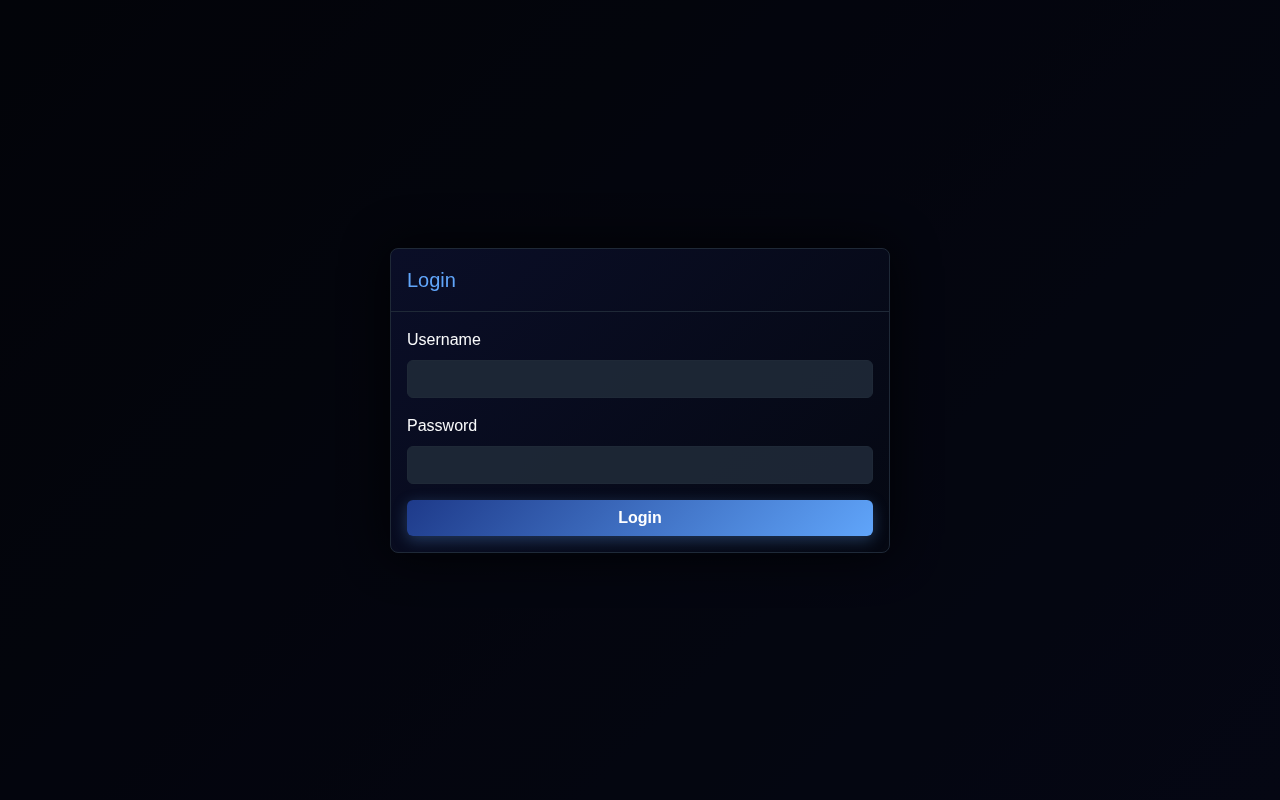
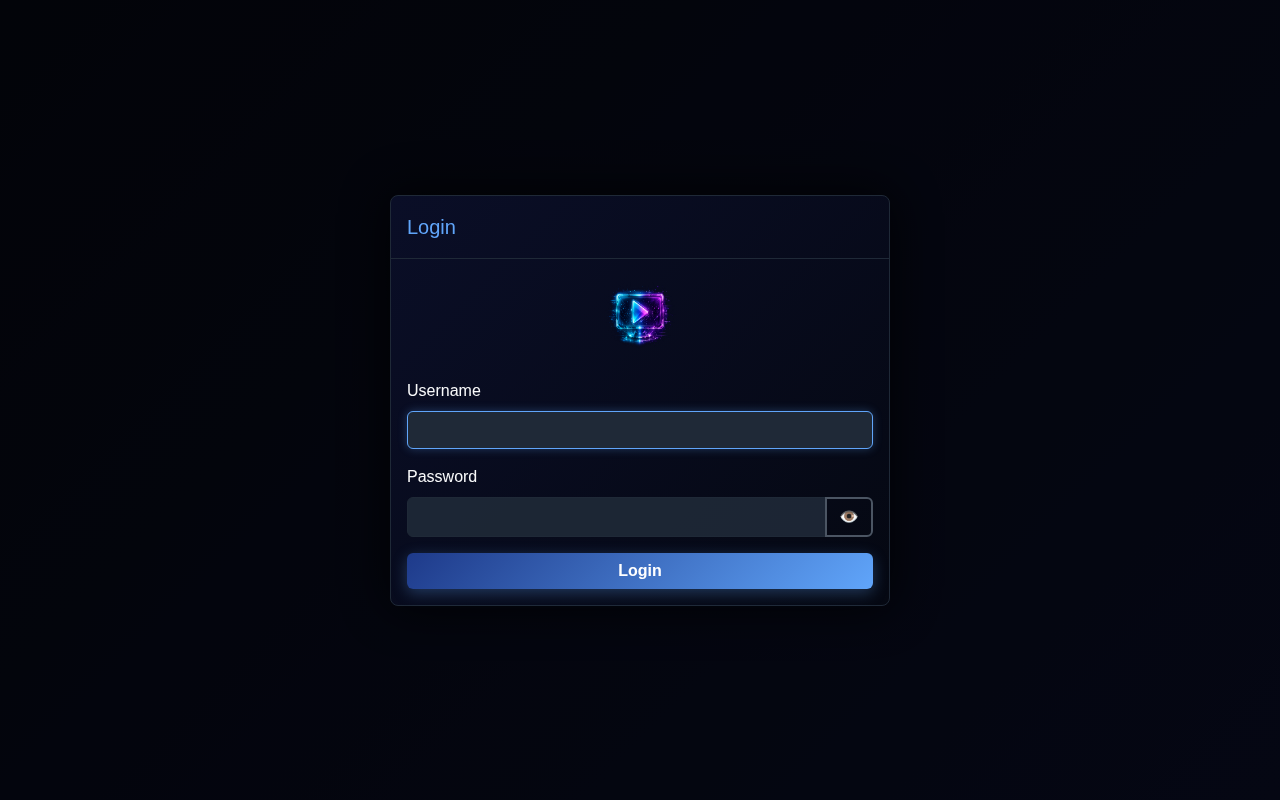
docs: update README features and refresh screenshots
- Add "User Backups" to the features list in README.md.
- Update the screenshot grid to use dashboard.png instead of the inaccurate providers.png.
- Add import_export.png and backups.png to the screenshots showcase.
- Refresh all docs/images/ screenshots with a new batch containing dummy data and updated UI elements.

Changed region(s): [[0.3125, 0.3438, 0.6875, 0.75], [0.2812, 0.2188, 0.5, 0.3125], [0.3125, 0.3438, 0.3438, 0.375]]

diff --git a/README.md b/README.md
@@ -29,6 +29,7 @@
 - **Internationalization**: Localized UI (English, German, French, Greek).
 - **M3U Playlist Generation**: Generate custom M3U playlists for external players.
 - **Import/Export**: Secure, password-protected data migration.
+- **User Backups**: Automatically create and manage backups of assigned categories and channels per user.
 
 ### Security
 - **🛡 SSRF Protection**: Robust validation of upstream URLs (preventing access to private IPs, localhost, cloud metadata).
@@ -126,7 +127,11 @@ The application blocks Cross-Origin Resource Sharing (CORS) by default for secur
 
 | Login | Dashboard |
 |:---:|:---:|
-| ![Login Page](docs/images/login.png) | ![Dashboard](docs/images/providers.png) |
+| ![Login Page](docs/images/login.png) | ![Dashboard](docs/images/dashboard.png) |
+
+| User Backups | Import/Export |
+|:---:|:---:|
+| ![User Backups](docs/images/backups.png) | ![Import/Export](docs/images/import_export.png) |
 
 | Categories | Channels |
 |:---:|:---:|
